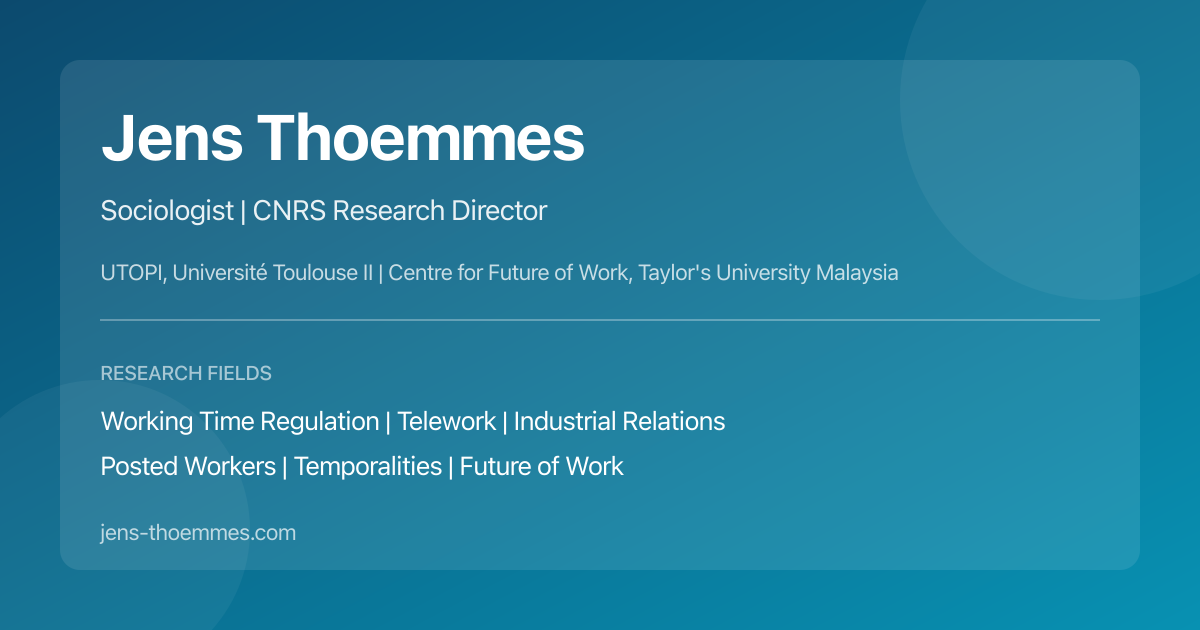
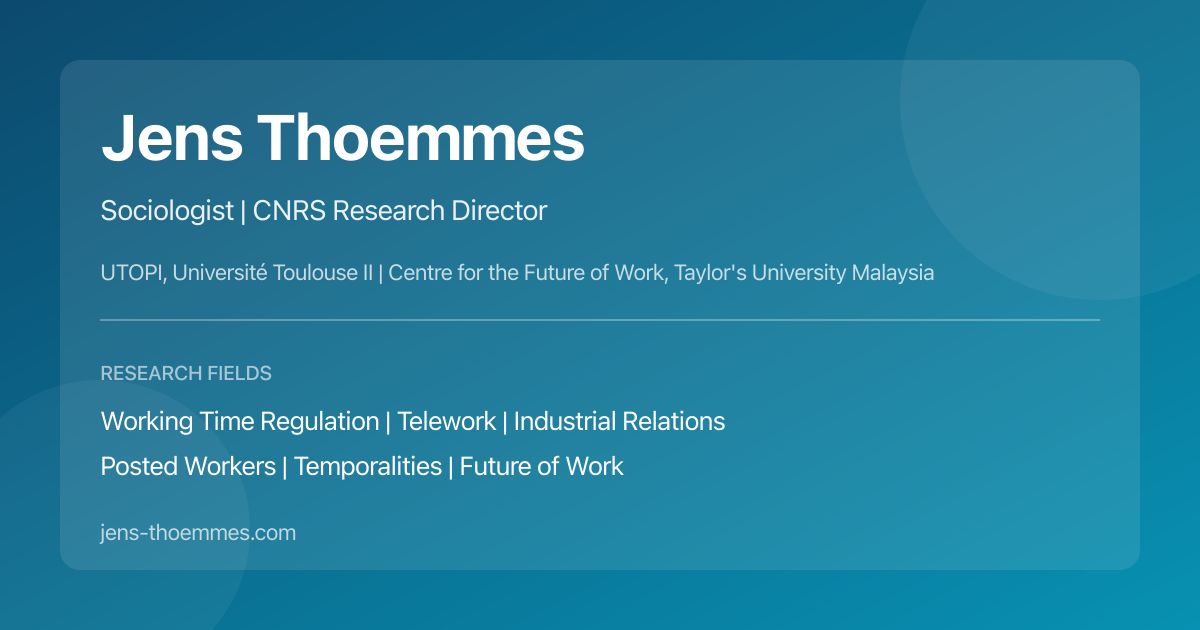
Link the affiliations to CNRS, UTOPI, UT2J and Taylor's CFW
Hero badges and footer entries link to the institutional pages, each checked
to return 200. CFW added to the Person structured data. The centre's name is
Centre for the Future of Work; corrected in the footer and the social card.

Changed region(s): [[0.4008, 0.4222, 0.8017, 0.4524]]

diff --git a/index.html b/index.html
@@ -59,7 +59,7 @@
       {
         "@type": "Organization",
         "name": "CNRS",
-        "url": "https://www.cnrs.fr/"
+        "url": "https://www.cnrs.fr/en"
       },
       {
         "@type": "Organization",
@@ -70,6 +70,11 @@
         "@type": "Organization",
         "name": "Université Toulouse II",
         "url": "https://www.univ-tlse2.fr/"
+      },
+      {
+        "@type": "Organization",
+        "name": "Centre for the Future of Work (CFW), Taylor's University",
+        "url": "https://university.taylors.edu.my/en/research-and-enterprise/research-centres/centre-for-the-future-of-work.html"
       }
     ],
     "knowsAbout": [
@@ -303,6 +308,12 @@
       border-radius: 20px;
       font-size: 0.875rem;
       border: 1px solid rgba(255, 255, 255, 0.3);
+      color: white;
+      text-decoration: none;
+    }
+
+    .position-badge:hover {
+      background: rgba(255, 255, 255, 0.3);
     }
 
     .main-container {
@@ -919,9 +930,9 @@
         Research fields: working time, social times, temporalities, remote work, work organization, and posted work.
       </p>
       <div class="position-badges">
-        <span class="position-badge">CNRS</span>
-        <span class="position-badge">UTOPI - Université Toulouse II</span>
-        <span class="position-badge">CFW - Taylor's University Malaysia</span>
+        <a class="position-badge" href="https://www.cnrs.fr/en" target="_blank" rel="noopener noreferrer">CNRS</a>
+        <a class="position-badge" href="https://utopi.cnrs.fr/" target="_blank" rel="noopener noreferrer">UTOPI - Université Toulouse II</a>
+        <a class="position-badge" href="https://university.taylors.edu.my/en/research-and-enterprise/research-centres/centre-for-the-future-of-work.html" target="_blank" rel="noopener noreferrer">CFW - Taylor's University Malaysia</a>
       </div>
     </div>
   </section>
@@ -4155,9 +4166,9 @@
       <div id="contact" class="footer-section">
         <h3 id="contactTitle">Affiliations</h3>
         <ul class="footer-links">
-          <li>UTOPI (UMR 5311, CNRS)</li>
-          <li>Université Toulouse II - Jean Jaurès</li>
-          <li>Centre for Future of Work, Taylor's University, Malaysia</li>
+          <li><a href="https://utopi.cnrs.fr/" target="_blank" rel="noopener noreferrer">UTOPI (UMR 5311, CNRS)</a></li>
+          <li><a href="https://www.univ-tlse2.fr/" target="_blank" rel="noopener noreferrer">Université Toulouse II - Jean Jaurès</a></li>
+          <li><a href="https://university.taylors.edu.my/en/research-and-enterprise/research-centres/centre-for-the-future-of-work.html" target="_blank" rel="noopener noreferrer">Centre for the Future of Work, Taylor's University, Malaysia</a></li>
         </ul>
       </div>
       <div class="footer-section">
